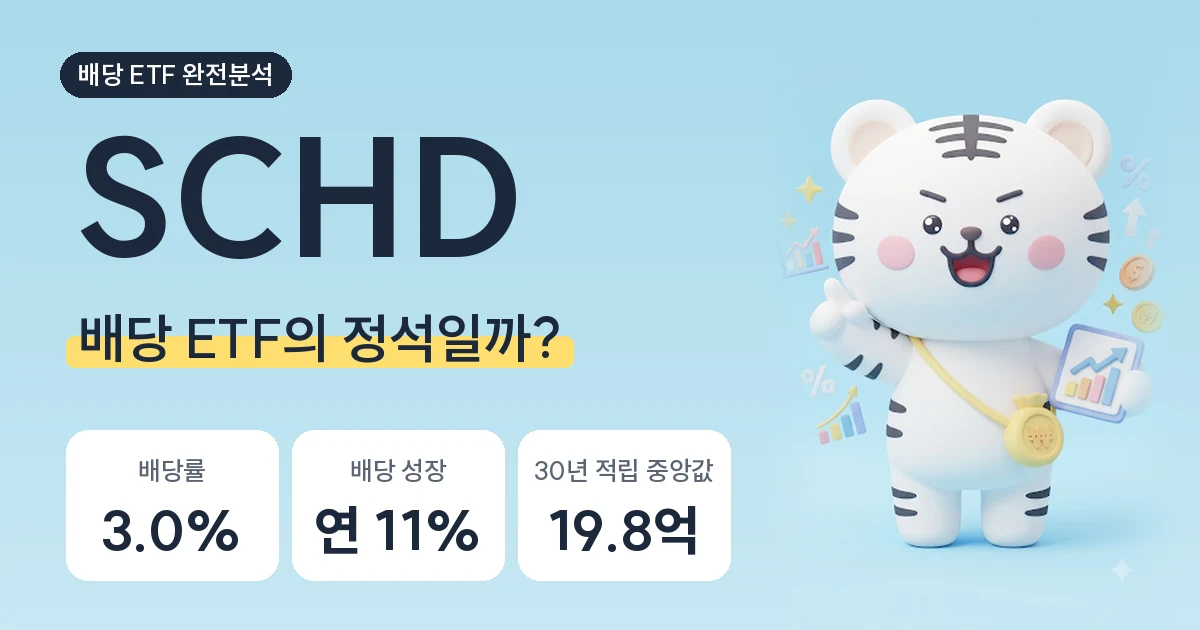
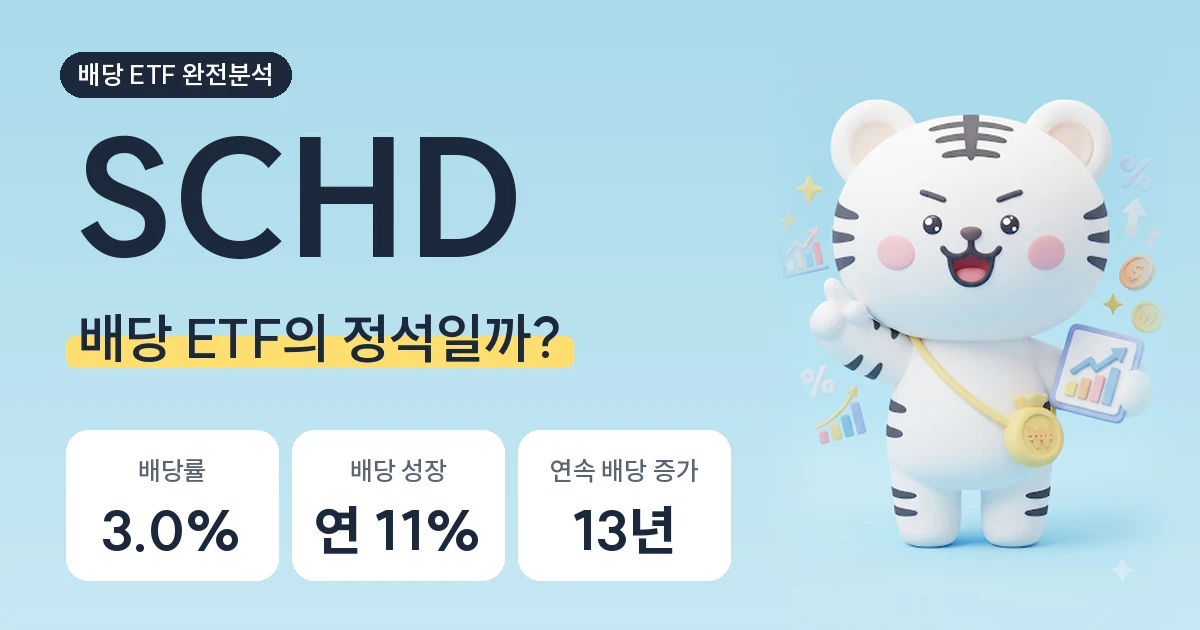
사이트 CSS v1, 썸네일 세 번째 칸 '13년 연속 배당 증가'
Claude-Session: https://claude.ai/code/session_01DBGKHsc3dH2WGfRK1tXguA

Changed region(s): [[0.4317, 0.7238, 0.5858, 0.9048]]

diff --git a/wordpress-plan/brand/site.css b/wordpress-plan/brand/site.css
@@ -1,0 +1,39 @@
+/* 백호 머니 사이트 CSS v1 — 외모 > 사용자 정의하기 > 추가 CSS 에 붙여넣기 */
+@import url("https://cdn.jsdelivr.net/gh/sun-typeface/SUIT@2/fonts/static/woff2/SUIT.css");
+:root{--ink:#191f28;--ink2:#6b7684;--ink3:#4e5968;--line:#eceef1;--soft:#f7f8fa;--accent:#2a78d6;--hl:rgba(255,214,90,.55);
+--c-schd:#2a78d6;--c-dgro:#12936a;--c-vym:#d95926;--c-spy:#6b7684;--c-safe:#6250d6;--c-grow:#008300;--c-red:#d93a3a}
+body,button,input,select,textarea,.main-navigation a{font-family:"SUIT",-apple-system,"Apple SD Gothic Neo","Noto Sans KR",sans-serif}
+body{background:#fff;color:var(--ink);font-size:17px;line-height:1.85;letter-spacing:-.01em;word-break:keep-all}
+.site,.inside-article,.separate-containers .inside-article,.separate-containers .site-main>*,.site-header,.site-footer,.footer-widgets,.site-info{background:#fff}
+.single .grid-container,.page .grid-container{max-width:720px}
+.separate-containers .inside-article{padding:24px 20px}
+.entry-title{font-size:clamp(25px,6.4vw,32px);line-height:1.4;font-weight:800}
+.entry-meta,.cat-links,.tags-links{font-size:13px;color:var(--ink2)}
+a{color:var(--accent)}
+.entry-content p{margin:0 0 20px}
+.entry-content h2{font-size:23px;line-height:1.45;font-weight:800;margin:76px 0 20px;padding-top:32px;border-top:1px solid var(--line)}
+.entry-content h3{font-size:18px;font-weight:700;margin:32px 0 8px}
+.entry-content mark{background:linear-gradient(transparent 58%,var(--hl) 58%);color:inherit;padding:0 1px}
+.entry-content figure{margin:28px 0 12px}
+.entry-content figure img{width:100%;border-radius:10px;border:1px solid var(--line)}
+.entry-content table{width:100%;border-collapse:collapse;border:0;font-size:15px;font-variant-numeric:tabular-nums}
+.entry-content th,.entry-content td{padding:11px 6px;border:0;border-bottom:1px solid var(--line);text-align:right;white-space:nowrap}
+.entry-content th:first-child,.entry-content td:first-child{text-align:left}
+.entry-content thead th{font-size:13px;font-weight:700;color:var(--ink2);background:none}
+.tbl{overflow-x:auto;margin:20px 0 24px}
+.num{color:var(--accent);font-weight:800}.neg{color:var(--c-red);font-weight:800}td.k{font-weight:800}
+.c-schd{color:var(--c-schd)}.c-dgro{color:var(--c-dgro)}.c-vym{color:var(--c-vym)}.c-spy{color:var(--c-spy)}.c-safe{color:var(--c-safe)}.c-grow{color:var(--c-grow)}
+.note{font-size:14px;color:var(--ink2);line-height:1.7}
+.how{font-size:14px;line-height:1.7;color:var(--ink3);margin:0 0 24px}.how b{color:var(--ink);margin-right:4px}
+.kpis{display:grid;grid-template-columns:1fr 1fr;margin:32px 0 8px;border-top:1px solid var(--line)}
+.kpi{padding:16px 4px;border-bottom:1px solid var(--line)}.kpi:nth-child(odd){border-right:1px solid var(--line);padding-right:12px}.kpi:nth-child(even){padding-left:16px}
+.kpi b{display:block;font-size:26px;font-weight:800;line-height:1.3;color:var(--accent);font-variant-numeric:tabular-nums}
+.kpi span{font-size:13px;color:var(--ink2)}.kpi i{display:block;font-style:normal;font-size:12.5px;color:var(--c-spy);margin-top:2px}
+.tldr,.summary{background:var(--soft);border-radius:14px;padding:18px 20px;margin:28px 0}
+.tldr b{display:block;font-size:13px;color:var(--ink2);margin-bottom:6px}.tldr ol{margin:0 0 0 20px}.summary p{margin:0 0 10px}.summary p:last-child{margin:0}
+.baekho{display:flex;gap:12px;align-items:center;border:1px solid var(--line);border-radius:14px;padding:14px 16px;margin:28px 0}
+.baekho img{width:40px;height:40px;border-radius:50%;flex:none;margin:0}.baekho div{font-size:15px;line-height:1.6}.baekho b{display:block;font-size:12px;color:var(--ink2)}
+.next{list-style:none;margin:16px 0 0;padding:0}.next li{padding:14px 0;border-bottom:1px solid var(--line);font-weight:700}.next li span{display:block;font-size:13px;color:var(--ink2);font-weight:400}
+.author{display:flex;gap:14px;align-items:center;margin:64px 0 20px;padding-top:28px;border-top:1px solid var(--line)}
+.author img{width:52px;height:52px;border-radius:50%;flex:none;margin:0}.author div{font-size:14px;line-height:1.6;color:var(--ink2)}.author strong{color:var(--ink);font-size:15px}
+.foot{font-size:12.5px;color:var(--ink2);line-height:1.75}

diff --git a/wordpress-plan/brand/scripts/thumbnail.py b/wordpress-plan/brand/scripts/thumbnail.py
@@ -38,5 +38,5 @@ def make_thumb(ticker, label, headline, chips, pose, out, tick_size=160):
 
 if __name__ == "__main__":
     make_thumb("SCHD", "배당 ETF 완전분석", "배당 ETF의 정석일까?",
-               [("3.0%", "배당률"), ("연 11%", "배당 성장"), ("19.8억", "30년 적립 중앙값")], "point-chart",
+               [("3.0%", "배당률"), ("연 11%", "배당 성장"), ("13년", "연속 배당 증가")], "point-chart",
                os.path.join(HERE, "..", "..", "etf", "out", "schd-thumbnail.webp"))
